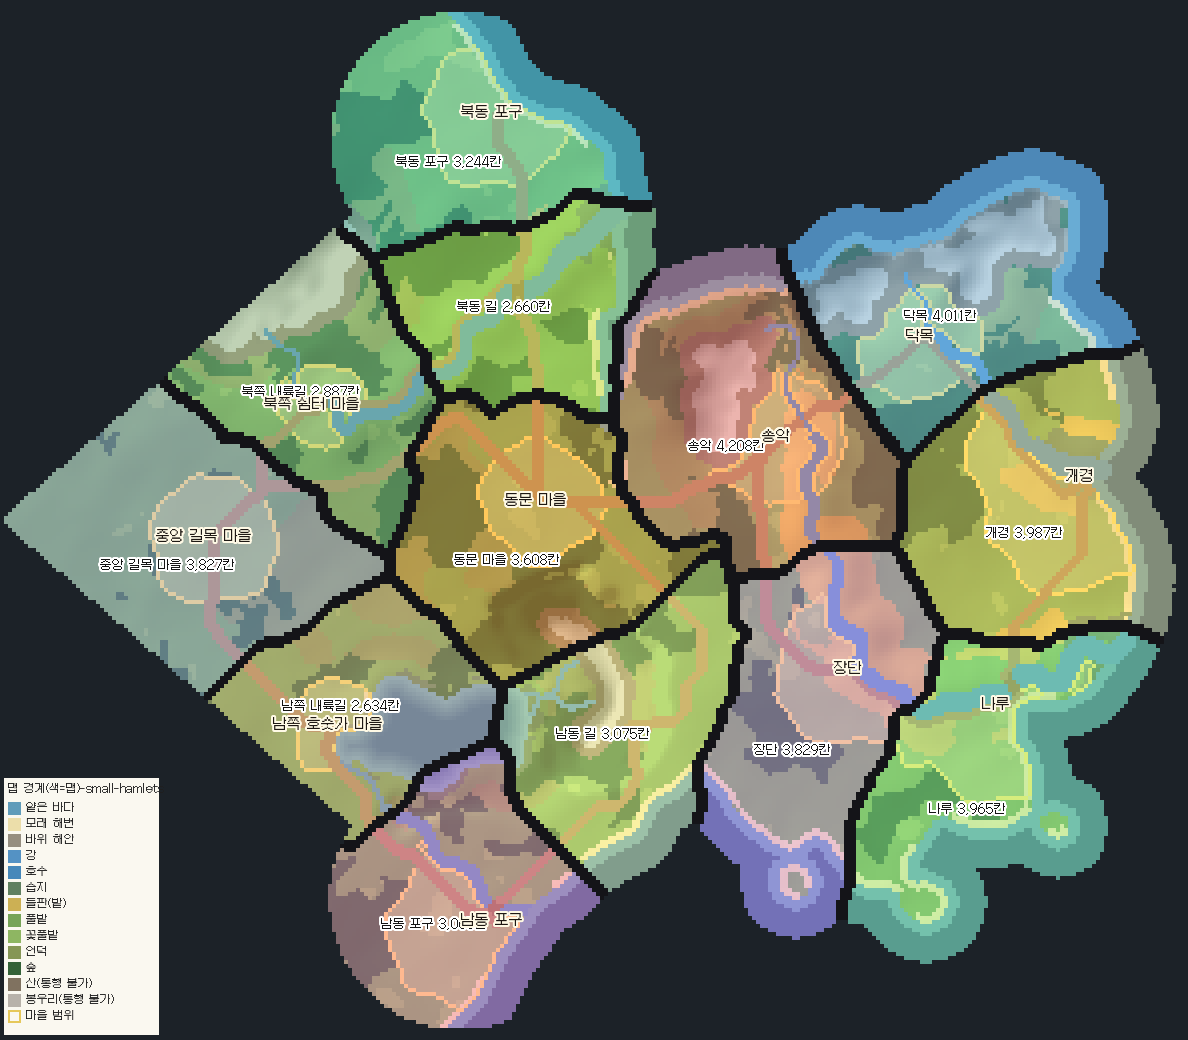
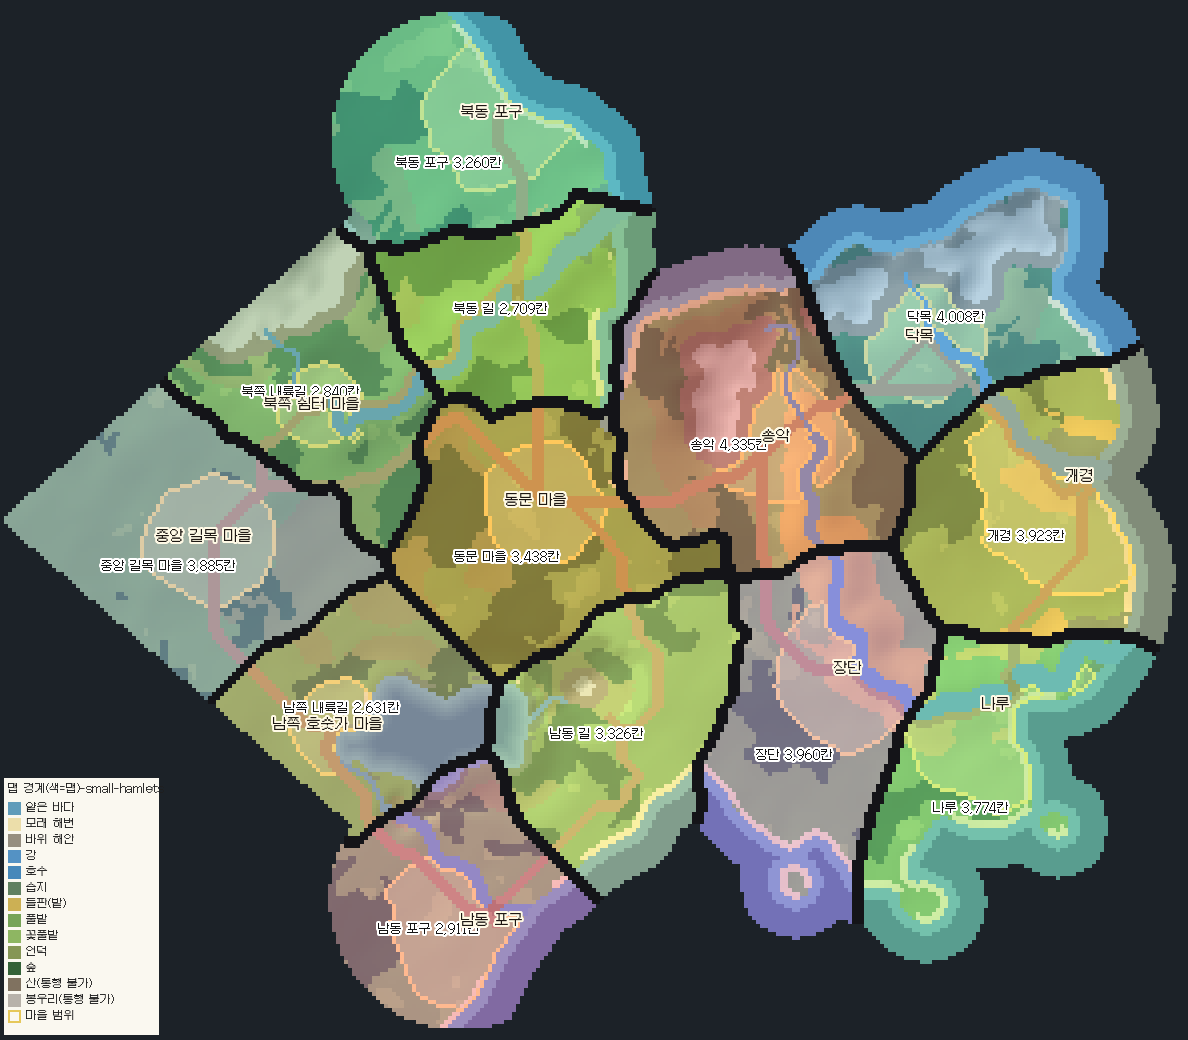
M1: 수원 산줄기를 작은 산 하나로 바꾸고 유입 개울을 1줄기로
Claude-Session: https://claude.ai/code/session_01LeGdCGGAkPbpRa1d2kF6Yd

diff --git a/Tools/WorldLayout/terrain_v3.py b/Tools/WorldLayout/terrain_v3.py
@@ -279,40 +279,30 @@ def build(layout):
         t[hillring&(forest_n>.42)]=FOREST;t[hillring&(forest_n<=.42)]=HILL
         elev=np.where(ringz,np.maximum(elev,np.quantile(elev[land],.82)*bump+elev*(1-bump)),elev)
         lk['hillCells']=int(hillring.sum())
-        # 수원지: 출구 반대편에 작은 산줄기(능선 + 봉우리 + 산자락 숲)를 세우고,
-        # 그 산 높은 곳에서 시작한 개울 2줄기가 골짜기를 따라 내려와 호수로 든다.
+        # 수원지: 출구 반대편에 작은 산 하나(봉우리 + 산자락 숲)를 두고,
+        # 그 산 높은 비탈에서 시작한 개울 1줄기가 호수로 든다.
         R_l=math.sqrt(m.sum()/math.pi);back=ang_out+math.pi
-        rng_=None
-        for dist_ in (R_l+26,R_l+22,R_l+18):
+        ctr_=None
+        for dist_ in (R_l+21,R_l+19,R_l+23,R_l+17):
             mcx,mcy=cx+math.cos(back)*dist_,cy+math.sin(back)*dist_
-            px_,py_=-math.sin(back),math.cos(back)      # 능선 방향: 호수 쪽과 수직
-            # 활처럼 휜 능선(호수를 감싸는 쪽으로 휨) + 불규칙한 흔들림
-            pts_=[(mcy+py_*s_*15-math.sin(back)*(s_*s_)*6+math.sin(s_*3.3+1)*2.2,
-                   mcx+px_*s_*15-math.cos(back)*(s_*s_)*6+math.cos(s_*2.7)*2.2) for s_ in np.linspace(-1,1,11)]
-            if all(0<=int(y)<H and 0<=int(x)<W and east[int(y),int(x)] and land[int(y),int(x)] and far[int(y),int(x)] for y,x in pts_):
-                rng_=pts_;break
+            iy,ix=int(round(mcy)),int(round(mcx))
+            if 0<=iy<H and 0<=ix<W and east[iy,ix] and land[iy,ix] and far[iy,ix] and not m[iy,ix]:
+                ctr_=(mcy,mcx);break
         inflow=[]
-        if rng_:
-            ridge2=np.zeros((H,W),bool)
-            for (y0_,x0_),(y1_,x1_) in zip(rng_,rng_[1:]):
-                n_=int(max(abs(y1_-y0_),abs(x1_-x0_))*2)+1
-                for i_ in range(n_+1):
-                    ridge2[int(round(y0_+(y1_-y0_)*i_/n_)),int(round(x0_+(x1_-x0_)*i_/n_))]=True
-            dr=ndimage.distance_transform_edt(~ridge2)
+        if ctr_:
+            mcy,mcx=ctr_
             wob_=noise((H,W),5,rng,3)                          # 산 가장자리를 들쭉날쭉하게
-            dr_=dr*(1+.55*(wob_-.5))
-            prof=np.exp(-(dr_/4.5)**2)+.45*np.exp(-(dr_/10)**2)     # 높은 산 덩어리 + 넓은 산자락
-            zone=(dr_<13)&east&land&~m&~river
+            dr_=np.hypot(yy_-mcy,(xx_-mcx)*.85)*(1+.45*(wob_-.5))
+            prof=np.exp(-(dr_/4.5)**2)+.45*np.exp(-(dr_/9)**2)
+            zone=(dr_<11)&east&land&~m&~river
             elev=np.where(zone,np.maximum(elev,.55+.45*prof),elev)
-            t[zone&(dr_<11)&(forest_n>.33)]=FOREST;t[zone&(dr_<11)&(forest_n<=.33)]=HILL
-            t[zone&(dr_<4.6)]=MOUNTAIN;t[zone&(dr_<2.2)]=PEAK
-            lk['sourceRange']=[[round(x+X0,1),round(y+Y0,1)] for y,x in (rng_[0],rng_[-1])]
-            # 개울: 능선 양쪽 끝 가까운 산자락(산 바로 바깥, 가장 높은 곳)에서 호수로
-            lakeward=((yy_-mcy)*(cy-mcy)+(xx_-mcx)*(cx-mcx))>0       # 산의 호수 쪽 비탈
-            for end_ in (rng_[2],rng_[-3]):
-                ey,ex=int(end_[0]),int(end_[1])
-                cand_=np.argwhere(zone&lakeward&~np.isin(t,[MOUNTAIN,PEAK])&(dr_<7)&(((yy_-ey)**2+(xx_-ex)**2)<8**2))
-                if not len(cand_):continue
+            t[zone&(dr_<9.5)&(forest_n>.33)]=FOREST;t[zone&(dr_<9.5)&(forest_n<=.33)]=HILL
+            t[zone&(dr_<5.2)]=MOUNTAIN;t[zone&(dr_<2.4)]=PEAK
+            lk['sourceMountain']=[round(mcx+X0,1),round(mcy+Y0,1)]
+            # 개울 1줄기: 산의 호수 쪽 비탈, 산 바로 바깥의 가장 높은 곳에서 시작
+            lakeward=((yy_-mcy)*(cy-mcy)+(xx_-mcx)*(cx-mcx))>0
+            cand_=np.argwhere(zone&lakeward&~np.isin(t,[MOUNTAIN,PEAK])&(dr_<7.5))
+            if len(cand_):
                 h0=tuple(cand_[np.argmax(elev[tuple(cand_.T)])])
                 mc=np.argwhere(m);m0=tuple(mc[np.argmin(((mc-np.array(h0))**2).sum(1))])
                 seg=astar(h0,m0,1+12*elev,blocked=np.isin(t,[MOUNTAIN,PEAK]),eight=True)
